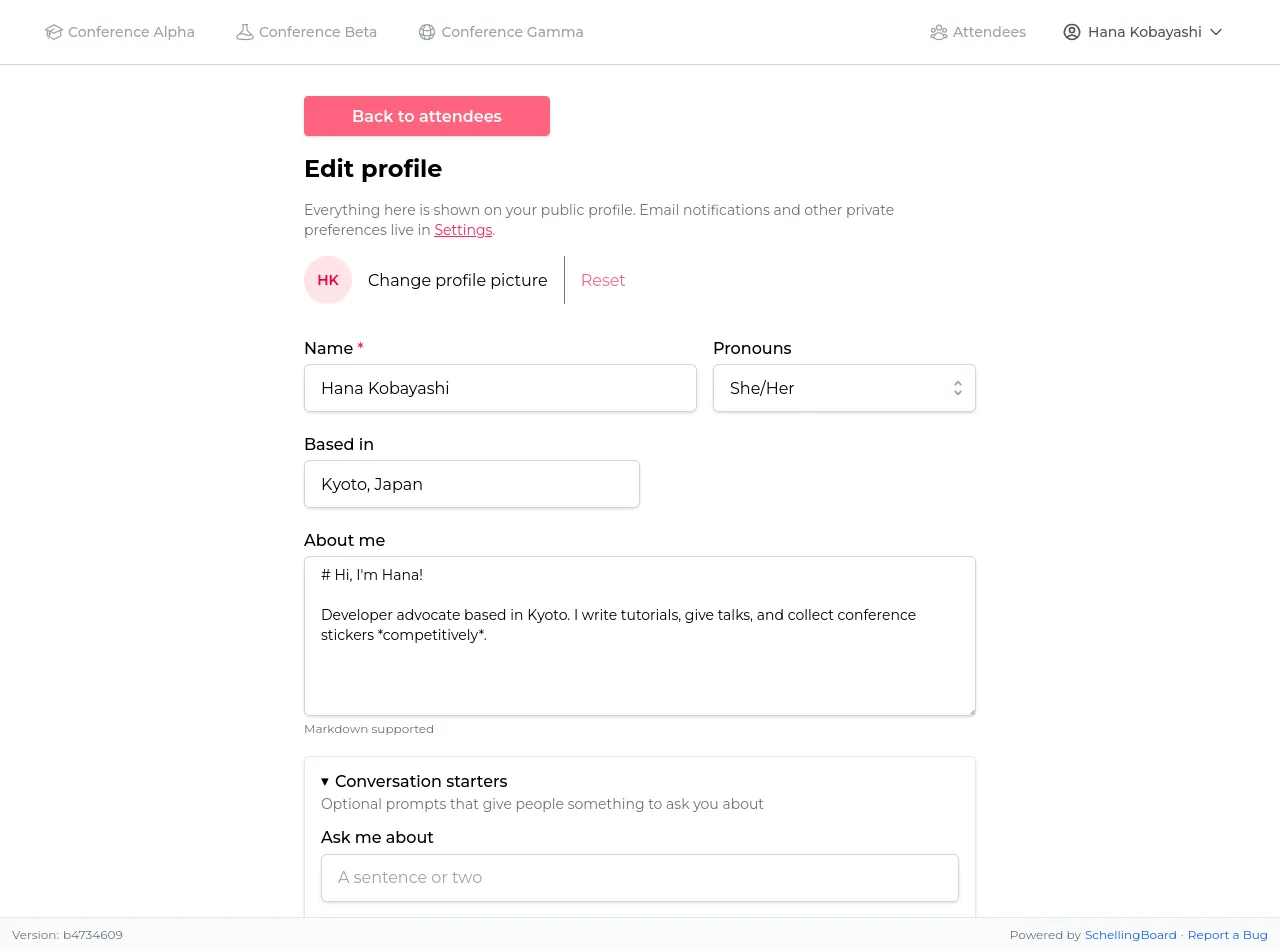
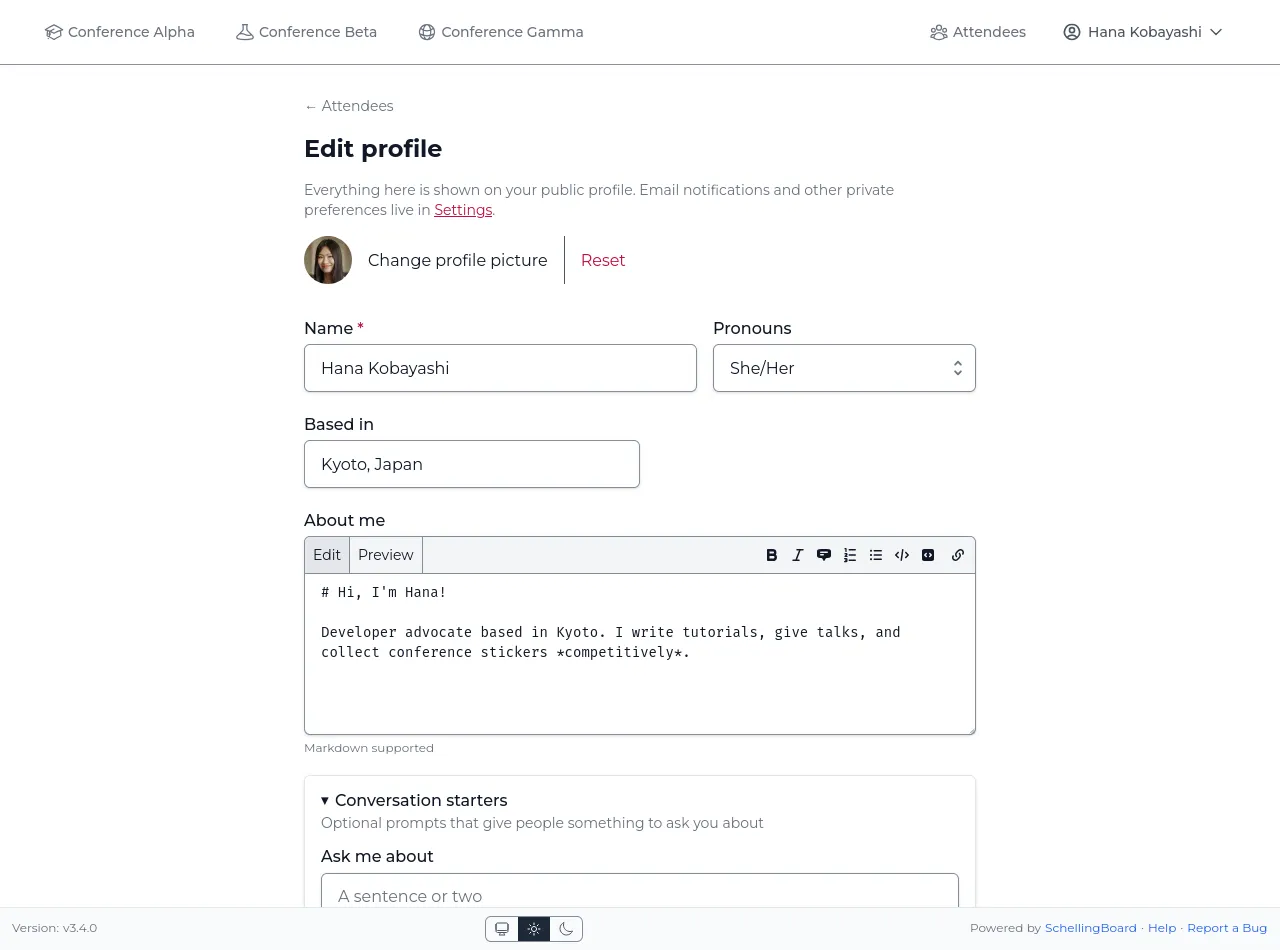
docs: recapture screenshots against the large seed profile
The old shots came from the small fixture set, so lists and schedules looked
half-empty. Two additions: the settings shot is now in dark mode, the only
place either site shows that the app has themes, and a new
proposal-vote-breakdown shot for the attendance prediction, which the
attendee guide described but never showed.

diff --git a/www/screenshots.html b/www/screenshots.html
@@ -516,13 +516,14 @@
             >
             <span class="step-desc"
               >Choose which changes you get emailed about, and protect your name
-              with a password so no one else can act as you.</span
+              with a password so no one else can act as you. Here in dark mode,
+              which is of course supported!</span
             >
           </figcaption>
           <img
             src="screenshots/user-settings.webp"
             loading="lazy"
-            alt="Settings page with email notification checkboxes and an Enable protection button for account security"
+            alt="Settings page in dark mode, one of the supported themes, with email notification checkboxes and an Enable protection button for account security"
           />
         </figure>
 

diff --git a/CHANGELOG.md b/CHANGELOG.md
@@ -42,6 +42,7 @@ The format is based on [Keep a Changelog](https://keepachangelog.com/en/1.0.0/).
 - Dependabot now keeps the mailpit image up to date. Its pin was repeated in `docker-compose.dev.yml` and both CI workflows, and Dependabot cannot see a workflow's `services:` image ([dependabot-core#5819](https://github.com/dependabot/dependabot-core/issues/5819)), so CI starts mailpit from the compose file and the pin has a single home. The image carries a tag as well as a digest, since a digest alone gives Dependabot no version to compare
 - Seeded guests with a profile now carry a last-edited date spread over the past month, instead of all being undated — "Recently updated" had nothing to sort in dev and demos
 - The dev seed (`make dev-db-seed`) defaults to a `large` profile: 400 guests, ~750 proposals and a mostly filled Gamma schedule, generated deterministically on top of the unchanged curated fixtures, so slow list rendering surfaces before a real event hits it. The E2E suite always seeds the curated-only `small` profile (`SEED_PROFILE` selects one explicitly), so tests stay fast and cannot come to depend on bulk data. The seed script is split into `scripts/seed/`: curated data under `data/`, the bulk generator in `bulk.ts`
+- All screenshots on the landing page and in the docs recaptured against the large seed profile, so lists scroll and the schedule looks like a real event. The settings shot is in dark mode, which is the one place both sites show that the app has themes
 - Conference Gamma gets four more seeded proposals: two hosted by Hana Kobayashi, the most complete seeded profile, and two with no host yet. Both cases were previously only reachable through random host assignment, which made them awkward to point a screenshot at
 
 ## [3.3.1] - 2026-08-08

diff --git a/docs/public/attendee-guide.md b/docs/public/attendee-guide.md
@@ -136,6 +136,8 @@ Open your own proposal during scheduling to see a **vote breakdown**: how many
 attendees voted and how many didn't, how the votes split across ❤ ⭐ 👋, and
 how many people to expect if you host it — a range, like "expect 8–17 people".
 
+![Proposal popup in the scheduling phase, showing a vote breakdown with turnout, the split across Interested, Maybe and Skip, and a range of how many people to expect](../screenshots/proposal-vote-breakdown.webp)
+
 :::warning "The range is a very rough guess"
 It comes from a single event where thirteen hosts recalled roughly how many
 people came to their session, so it can be well out in either direction. Use
@@ -223,7 +225,7 @@ login instead, open **Settings → Account security** and click **Enable
 protection**. You'll be emailed an 8-character code, valid for 10 minutes;
 type it in to confirm. You can set a password at the same time.
 
-![Settings page with email notification checkboxes and an Enable protection button](../screenshots/user-settings.webp)
+![Settings page in dark mode, one of the supported themes, with email notification checkboxes and an Enable protection button](../screenshots/user-settings.webp)
 
 Once protected, picking your name asks for that password or a fresh emailed
 code. The login lasts a week, or until you switch to a different name, and

diff --git a/docs/screenshots/README.md b/docs/screenshots/README.md
@@ -97,6 +97,7 @@ changes materially. Check off `[ ]` as you go.
 - [ ] `proposals-vote.webp` — Proposal list with Interested / Maybe / Skip voting
 - [ ] `quick-voting.webp` — Quick Voting mode, one proposal at a time
 - [ ] `proposals-results.webp` — Proposal list in the **scheduling** phase: "Your vote" column and ❤/⭐ vote counts (only visible once voting is over)
+- [ ] `proposal-vote-breakdown.webp` — A proposal's popup in the **scheduling** phase, showing the vote breakdown and the "expect N–M people" prediction. Open it as the host (Hana Kobayashi) of a proposal with enough votes, or the box is withheld
 - [ ] `schedule-grid.webp` — Simple scheduling grid with room photos (also used as the site hero; also regenerates `www/og-image.jpg`, see above)
 - [ ] `session-details.webp` — Session detail popup (host, location, time, attendees, description)
 - [ ] `add-session.webp` — Form for adding a session directly to the schedule
